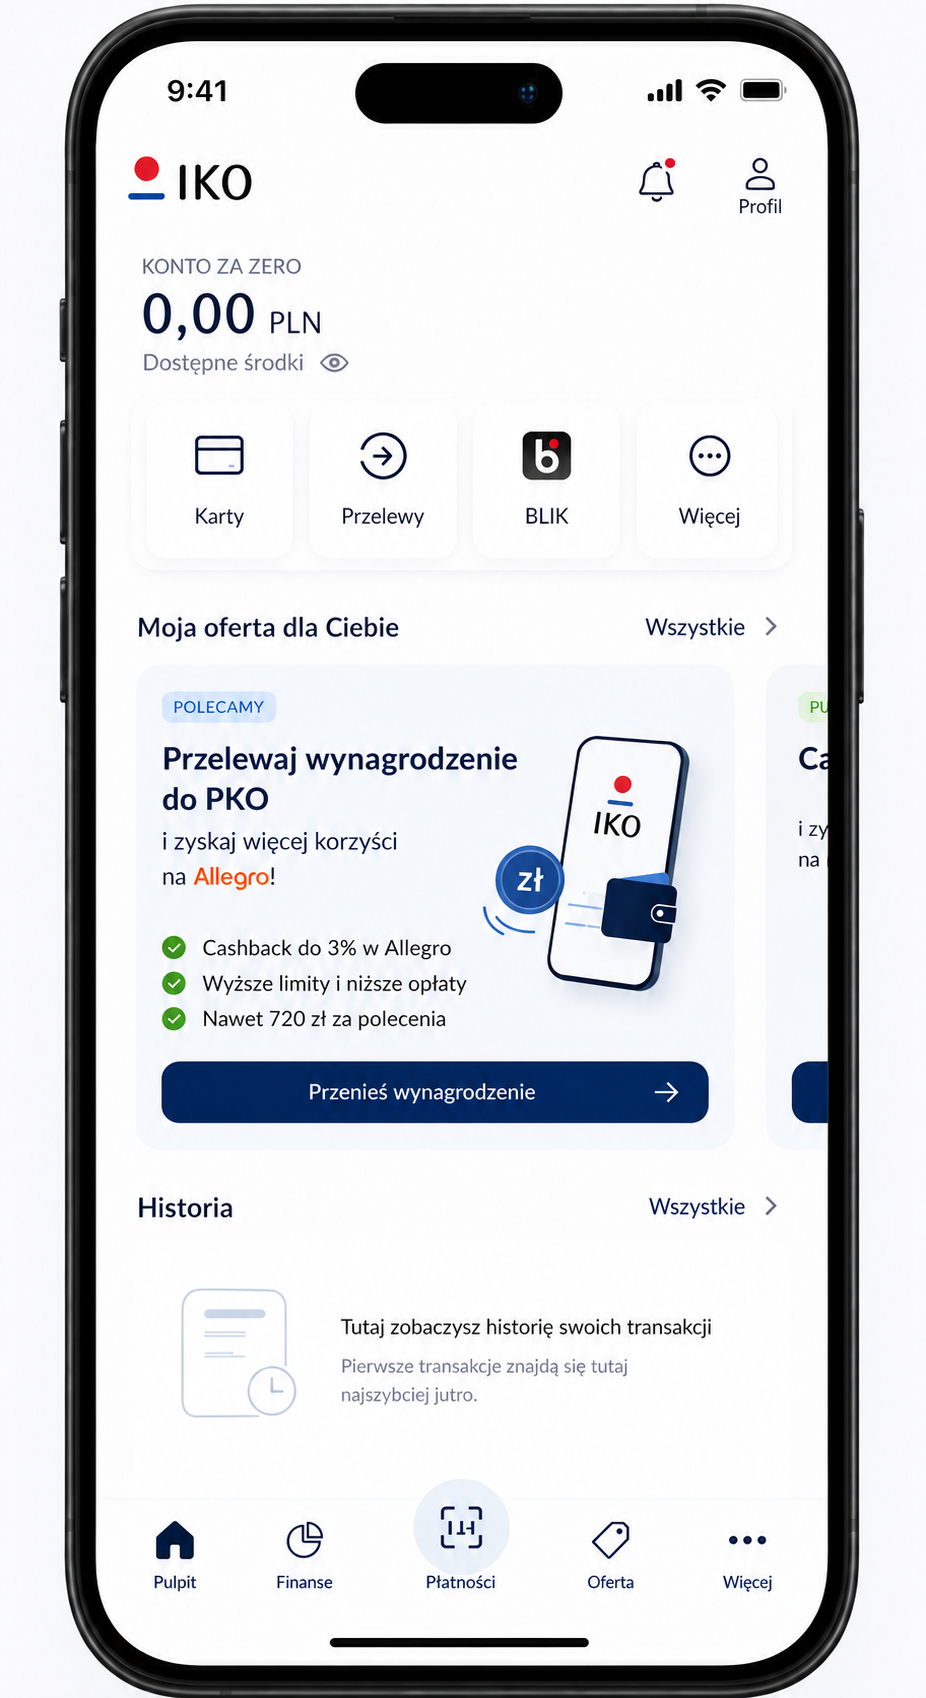
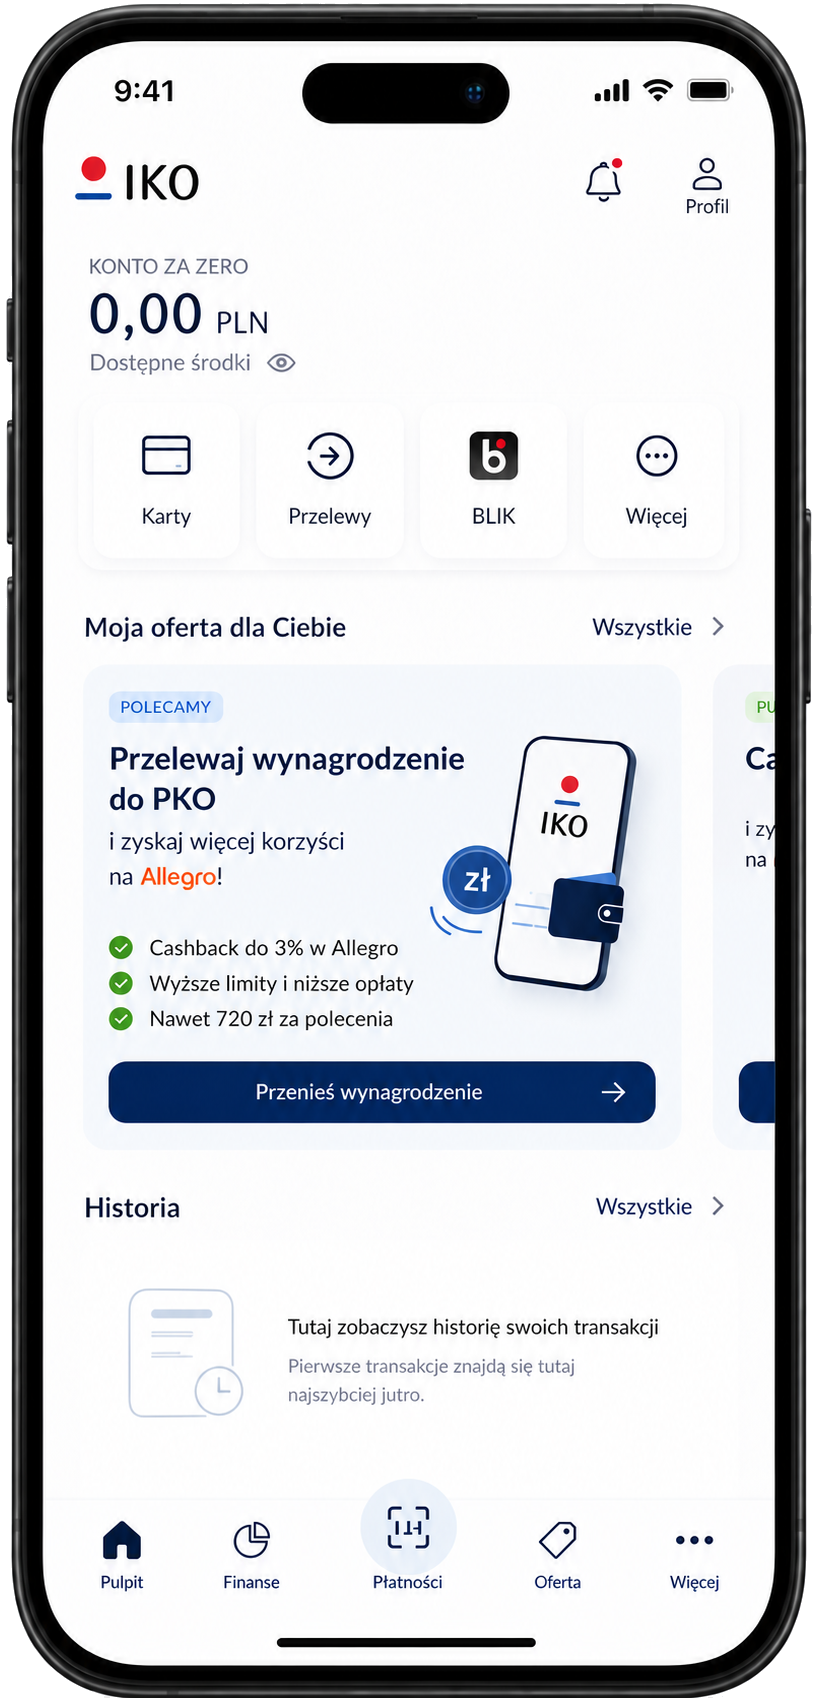
Fix dangling Ekran Eweliny label, rewrite STEP10, remove white bg from app-home shot
STEP9 had a claudia-lab label with no accompanying prodcard content - added
one describing what the profile screen actually shows. STEP10 (first IKO
login) copy rewritten per feedback, and its screenshot's white corners
removed/cropped to match the other transparent device shots.

diff --git a/index.html b/index.html
@@ -499,12 +499,13 @@ html,body{width:100%;height:100%;margin:0;overflow:hidden;background:#0a1628;fon
   <div class="story a1">
     <div class="numdisc a1">9</div>
     <h2 class="htitle a2">Pełny obraz Michała</h2>
-    <p class="narr a3">Po identyfikacji wszystkie dotychczasowe sygnały łączą się w jeden profil klienta — od wcześniejszych interakcji i przynależności do grup odbiorców po dane produktowe i aktywność w kanałach PKO: 6 audiencji, 18 atrybutów, 6 tożsamości w jednym Identity Graph.</p>
+    <p class="narr a3">Po identyfikacji wszystkie dotychczasowe sygnały łączą się w jeden profil klienta — od wcześniejszych interakcji i przynależności do grup odbiorców po dane produktowe i aktywność w kanałach PKO: 6 segmentów, 18 atrybutów, 6 tożsamości w jednym Identity Graph.</p>
     <p class="narr a3">Bank widzi już nie pojedyncze interakcje, ale pełny kontekst Michała, który może wykorzystać przy kolejnej decyzji — jak segment <strong>Klienci bez wpływu wynagrodzenia</strong> ze score <strong>87% Likelihood to Engage</strong> dla oferty "Przeniesienie wynagrodzenia".</p>
     <div class="claudia-lab a4">Ekran Eweliny</div>
+    <div class="prodcard a5">Jeden ekran profilu: dane podstawowe, Identity Graph, przynależność do audiencji i Propensity Scores — wszystko w jednym miejscu, bez przełączania się między systemami.</div>
     <div class="takeaway a5">Rozpoznaj Michała — nie tracąc wcześniejszego kontekstu.</div>
   </div>
-  <div class="screen a3"><div class="browser"><div class="bbar"><span class="d"></span><span class="d"></span><span class="d"></span><span class="u">experience.adobe.com/profile/michal-kowalski</span></div><div class="mockbody"><img src="assets/michal-rich-profile.png" alt="Adobe Experience Platform — bogaty profil Michała Kowalskiego, 6 audiencji, 18 atrybutów, propensity scores"></div></div></div>
+  <div class="screen a3"><div class="browser"><div class="bbar"><span class="d"></span><span class="d"></span><span class="d"></span><span class="u">experience.adobe.com/profile/michal-kowalski</span></div><div class="mockbody"><img src="assets/michal-rich-profile.png" alt="Adobe Experience Platform — bogaty profil Michała Kowalskiego, 6 segmentów, 18 atrybutów, propensity scores"></div></div></div>
   <div class="persona a5"><div class="av" style="background:linear-gradient(150deg,var(--red),var(--red-dk));">E</div><div class="nm">Ewelina</div></div>
   <div class="phasebar a5"><span class="ph on">Pozyskanie</span><span class="ph">Retencja</span></div>
   <div class="adobe-foot"><img src="adobe-wordmark-red.svg" alt="Adobe"></div>
@@ -515,8 +516,8 @@ html,body{width:100%;height:100%;margin:0;overflow:hidden;background:#0a1628;fon
   <div class="phase-pill a1">01 · Pozyskanie</div>
   <div class="story a1">
     <div class="numdisc a1">10</div>
-    <h2 class="htitle a2">Ekran główny aplikacji — dopasowany dla Michała</h2>
-    <p class="narr a3">Michał otwiera IKO pierwszy raz — konto świeże, saldo 0,00 zł, historia transakcji jeszcze pusta. Mimo to ekran główny jest już dopasowany: Decisioning stawia na górze ofertę "Przelewaj wynagrodzenie do PKO i zyskaj więcej korzyści na Allegro" — cashback do 3% w Allegro, wyższe limity i niższe opłaty, nawet 720 zł za polecenia.</p>
+    <h2 class="htitle a2">Dopasuj doświadczenie od pierwszego dnia</h2>
+    <p class="narr a3">Michał po raz pierwszy otwiera IKO. Nie ma jeszcze historii transakcji, ale jego profil zawiera już sygnały z wcześniejszych interakcji. Experience Decisioning wykorzystuje ten kontekst, aby od pierwszej wizyty dobrać najbardziej trafną ofertę.</p>
     <div class="takeaway a5">Personalizacja od pierwszego dnia, nie po miesiącach danych.</div>
   </div>
   <div class="screen screen-device a3">
